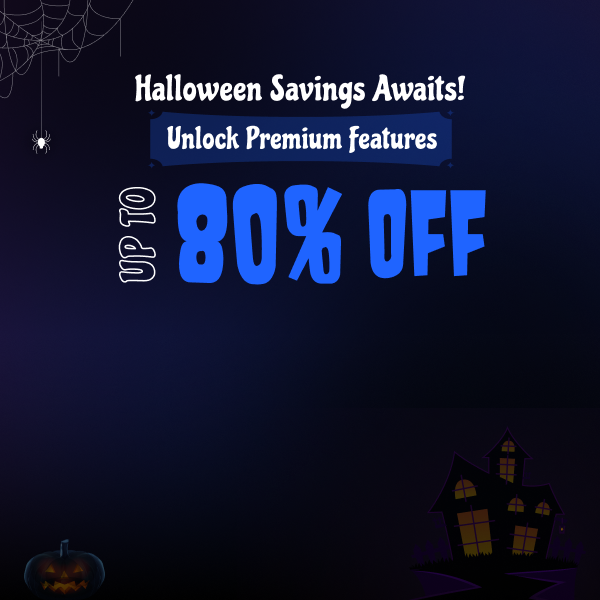
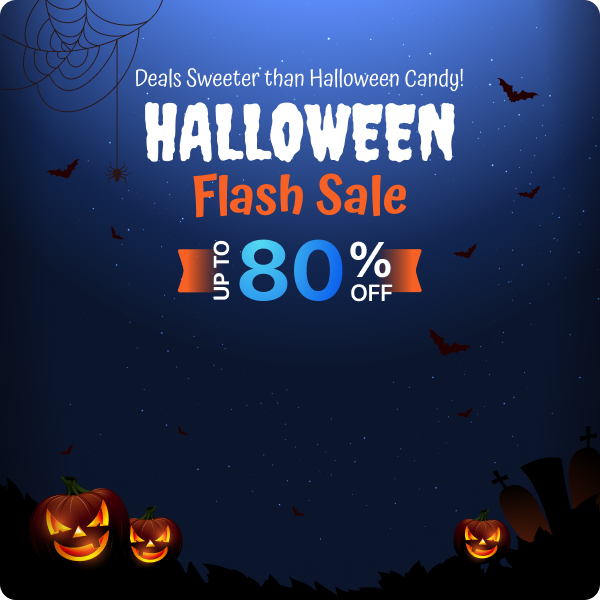
2.6.14

diff --git a/webinar-and-video-conference-with-jitsi-meet/jitsi-meet-wp.php b/webinar-and-video-conference-with-jitsi-meet/jitsi-meet-wp.php
@@ -3,7 +3,7 @@
  * Plugin Name:       Webinar and Video Conference with Jitsi Meet
  * Plugin URI:        https://jitsi-meet-wp.wppool.dev/
  * Description:       Host live webinars, conferences, online classes, video calls directly on your WordPress website with gutenberg block
- * Version:           2.6.13
+ * Version:           2.6.14
  * Author:            WPPOOL
  * Author URI:        https://wppool.dev
  * License:           GPL-2.0+
@@ -20,7 +20,7 @@ if ( ! defined( 'ABSPATH' ) ) {
 	exit;
 }
 
-define( 'JITSI_MEET_WP_VERSION', '2.6.13' );
+define( 'JITSI_MEET_WP_VERSION', '2.6.14' );
 define( 'JITSI_MEET_WP__FILE__', __FILE__ );
 define( 'JITSI_MEET_WP_DIR_PATH', plugin_dir_path( JITSI_MEET_WP__FILE__ ) );
 define( 'JITSI_MEET_WP_FILE_PATH', plugin_dir_path( __FILE__ ) );
@@ -112,10 +112,12 @@ function jitsi_meet_wppool_sdk_init() {
 		$jitsi_meet_plugin = wppool_plugin_init( 'webinar_and_video_conference_with_jitsi_meet', plugin_dir_url( JITSI_MEET_WP__FILE__ ) . '/inc/wppool/background-image.png' );
 
 		if ( $jitsi_meet_plugin && is_object( $jitsi_meet_plugin ) && method_exists( $jitsi_meet_plugin, 'set_campaign' ) ) {
-			$to            = '2023-11-27';
-			$from          = '2023-11-16';
-			$campain_image = plugin_dir_url( JITSI_MEET_WP__FILE__ ) . '/inc/wppool/black-friday.png';
-			$jitsi_meet_plugin->set_campaign( $campain_image, $to, $from );
+			$to       = '2024-11-05 16:00:00';
+			$from     = '2024-10-21 16:00:00';
+			$cta_text = esc_html__( 'Grab Your Treat!', 'jitsi-meet-wp' );
+
+			$campain_image = plugin_dir_url( JITSI_MEET_WP__FILE__ ) . '/inc/wppool/halloween.png';
+			$jitsi_meet_plugin->set_campaign( $campain_image, $to, $from, $cta_text );
 		}
 	}
 }

diff --git a/webinar-and-video-conference-with-jitsi-meet/inc/wppool/class-plugin.php b/webinar-and-video-conference-with-jitsi-meet/inc/wppool/class-plugin.php
@@ -1257,18 +1257,15 @@ if ( ! class_exists( 'WPPOOL_Plugin' ) ) {
 		 * @param string $from Start from. Default is now.
 		 * @return mixed
 		 */
-		public function set_campaign( $image_url = null, $to = null, $from = null ) {
+		public function set_campaign( $image_url = null, $to = null, $from = null, $button_text = 'Get Premium' ) {
 			// Bailout if image url is not valid.
 			if ( ! $image_url ) {
 				return $this;
 			}
 
-			// Set from now if it's not set.
-			$from_time = $from ? strtotime( $from . ' 00:00:01' ) : strtotime( 'now' );
-
-			// Set to 2 weeks from now if it's not set.
-			$to_time = $to ? strtotime( $to . ' 23:59:59' ) : strtotime( '+2 weeks' );
-
+			// Set default times if not provided.
+			$from_time = $from ? strtotime( $from ) : strtotime( 'now' );
+			$to_time = $to ? strtotime( $to ) : strtotime( '+2 weeks' );
 			$current_time = strtotime( 'now' );
 
 			// If current time is not between from and to date, return.
@@ -1276,12 +1273,12 @@ if ( ! class_exists( 'WPPOOL_Plugin' ) ) {
 				return $this;
 			}
 
-			// Modify the plugin data.
-			add_filter( 'wppool_plugins', function ( $plugins ) use ( $image_url, $to, $from ) {
-
+			// Modify the plugin data to include the campaign image, date range, and button text.
+			add_filter( 'wppool_plugins', function ( $plugins ) use ( $image_url, $to, $from, $button_text ) {
 				$plugins[ $this->plugin_id ]['background_image'] = $image_url;
 				$plugins[ $this->plugin_id ]['from'] = $from;
 				$plugins[ $this->plugin_id ]['to'] = $to;
+				$plugins[ $this->plugin_id ]['button_text'] = $button_text;
 
 				return $plugins;
 			} );
